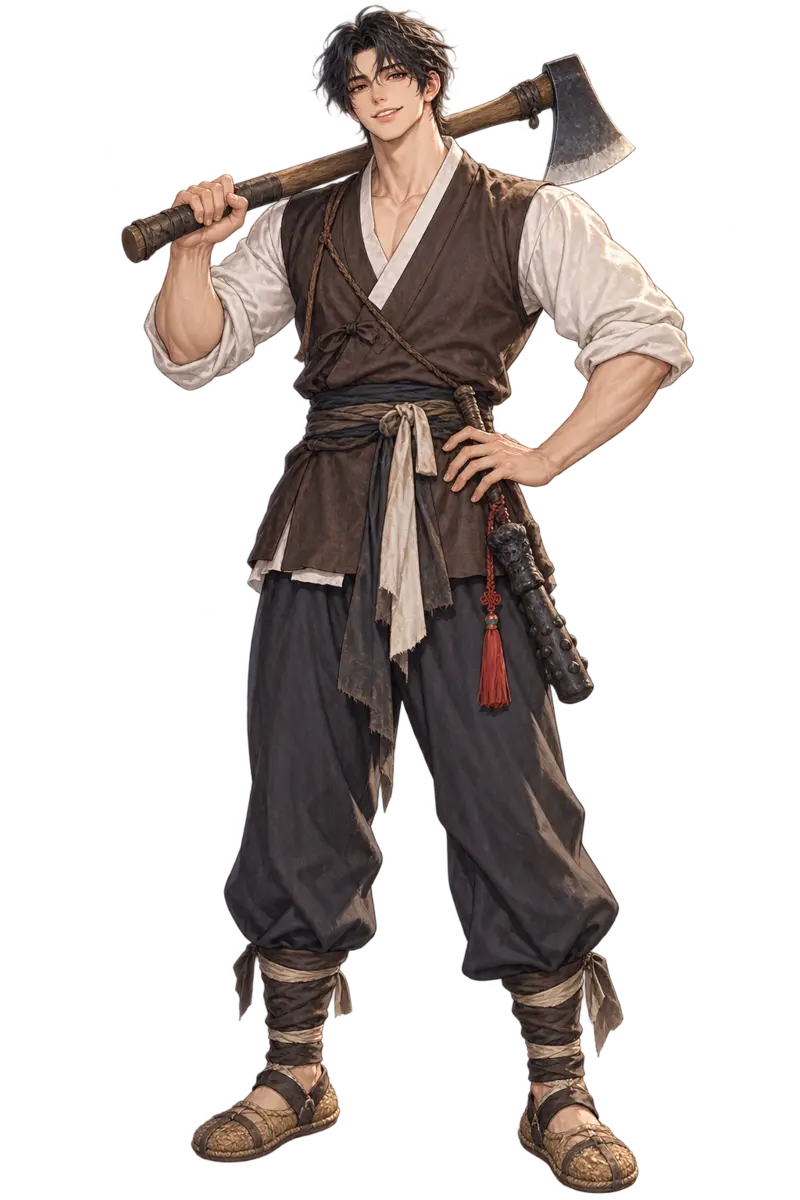
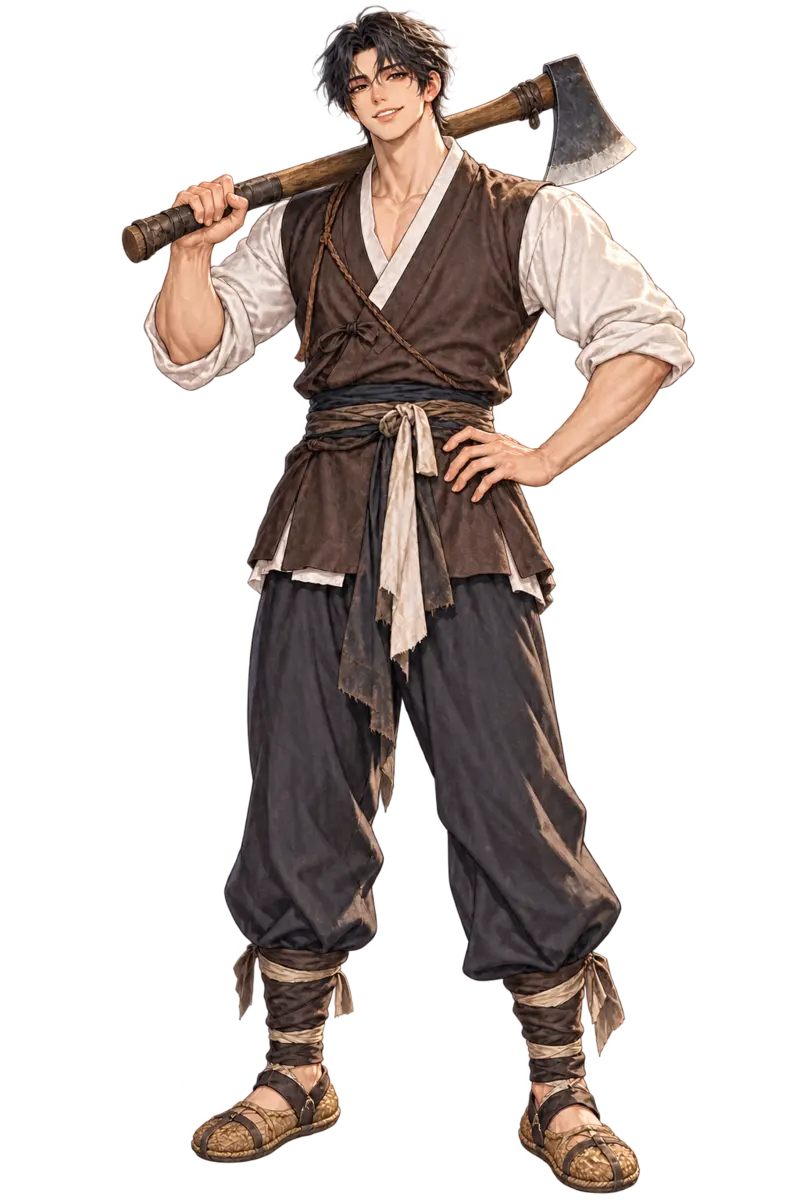
story: 1~3화 디테일 다듬기
- 이름을 밝히기 전에는 이름표에 '???'·'뿔 달린 무관'·'항아리 속 여자'(as), 백설이 자기 이름과 '진짜 이름'을 설명
- 창고지기가 방망이를 알고 찾아온 이유(주막 자랑), 뒷산을 '오늘부터' 송 대감 댁 산이라 우기는 장면
- 백설이 옆 소나무에 있었음, 집 안에서 마당으로 나가는 연결, 1화 끝 백설의 불면
- 2화: 흑운채 설명, '빈손' 모순과 '누가 더 빠른지' 모호한 대사 고침, 부채→손거울(그림과 맞춤), 무영 이름이 드러나는 순간
- 3화: 칼→쇠방망이(그림과 맞춤), 뒷문 틈으로 엿보는 연결, 우렁이 껍데기·장부·금 간 방망이 그림
- 해설 줄에서 등장 인물을 세우는 show, 주인공 그림에서 줍기 전 허리의 방망이 지움

Claude-Session: https://claude.ai/code/session_01AG3ixGBdGKPAAzXvjh6L4F

diff --git a/src/ui/StoryView.tsx b/src/ui/StoryView.tsx
@@ -9,7 +9,10 @@ import { act } from './store';
 import type { ModalRequest } from './App';
 /** 장면에 보일 인물: 폰 화면에서 크게 보이도록 가장 최근에 말한 식객 한 명. 아직 식객이 말하지 않았고 주인공만 말했으면 주인공 전신. */
 function sceneCast(cast: string[], spoken: StoryLine[]): string[] {
-    for (let i = spoken.length - 1; i >= 0; i--) if (cast.includes(spoken[i].who)) return [spoken[i].who];
+    for (let i = spoken.length - 1; i >= 0; i--) {
+        const who = spoken[i].show ?? spoken[i].who;
+        if (cast.includes(who)) return [who];
+    }
     if (spoken.some(l => l.who === 'me')) return [HERO_CAST];
     return [];
 }
@@ -22,7 +25,7 @@ export function NovelFrame({ title, bg, cast, line, onNext, children, onClose }:
     children?: ReactNode;
     onClose?: () => void;
 }) {
-    const name = line?.who === 'me' ? '나' : line?.who.startsWith('npc:') ? line.who.slice(4) : YOKAI_BY_ID[line?.who ?? '']?.name;
+    const name = line?.as ?? (line?.who === 'me' ? '나' : line?.who.startsWith('npc:') ? line.who.slice(4) : YOKAI_BY_ID[line?.who ?? '']?.name);
     return <div className="vn" role="dialog" aria-label={title} onClick={onNext} tabIndex={0} onKeyDown={e => { if (e.key === 'Enter' || e.key === ' ') {
         e.preventDefault();
         onNext();

diff --git a/src/core/story.ts b/src/core/story.ts
@@ -77,7 +77,7 @@ export function completeEpisode(s: GameState, ep: Episode, choices: (number | nu
 }
 
 /** 이야기에 띄울 수 있는 물건 그림 */
-export const ITEMS = ['bangmangi', 'iou', 'emblem'];
+export const ITEMS = ['bangmangi', 'iou', 'emblem', 'shell', 'ledger', 'crack'];
 
 const BGS = ['village', 'palace', 'market', 'tavern', 'field', 'night', 'forest', 'hall', 'court', 'hut', 'villagenight'];
 
@@ -97,6 +97,7 @@ export function validateEpisode(ep: Episode, heroineIds: Set<string>): string[] 
       if (!l.text) errs.push(`${i + 1}장면에 빈 대사가 있어요`);
       if (/[一-鿿]/.test(l.text ?? '')) errs.push(`${i + 1}장면 대사에 한자가 있어요: ${l.text}`);
       if (l.img && !ITEMS.includes(l.img)) errs.push(`${i + 1}장면 img가 목록에 없어요: ${l.img}`);
+      if (l.show && !(sc.cast ?? []).includes(l.show)) errs.push(`${i + 1}장면 show가 cast에 없어요: ${l.show}`);
     }
     for (const o of sc.choice?.options ?? []) {
       for (const id of Object.keys(o.effects?.bond ?? {})) if (!heroineIds.has(id)) errs.push(`선택지 bond에 없는 식객: ${id}`);

diff --git a/src/core/types.ts b/src/core/types.ts
@@ -163,6 +163,10 @@ export interface StoryLine {
   if?: string;
   /** 이 줄에서 화면 가운데 크게 보여 줄 물건 그림(art/item/<이름>.webp) */
   img?: string;
+  /** 이름표에 대신 띄울 호칭(이름을 밝히기 전 '???' 등) */
+  as?: string;
+  /** 해설 줄에서 이 인물을 화면에 세운다(등장 묘사 등) */
+  show?: string;
 }
 
 export interface StoryEffects {
